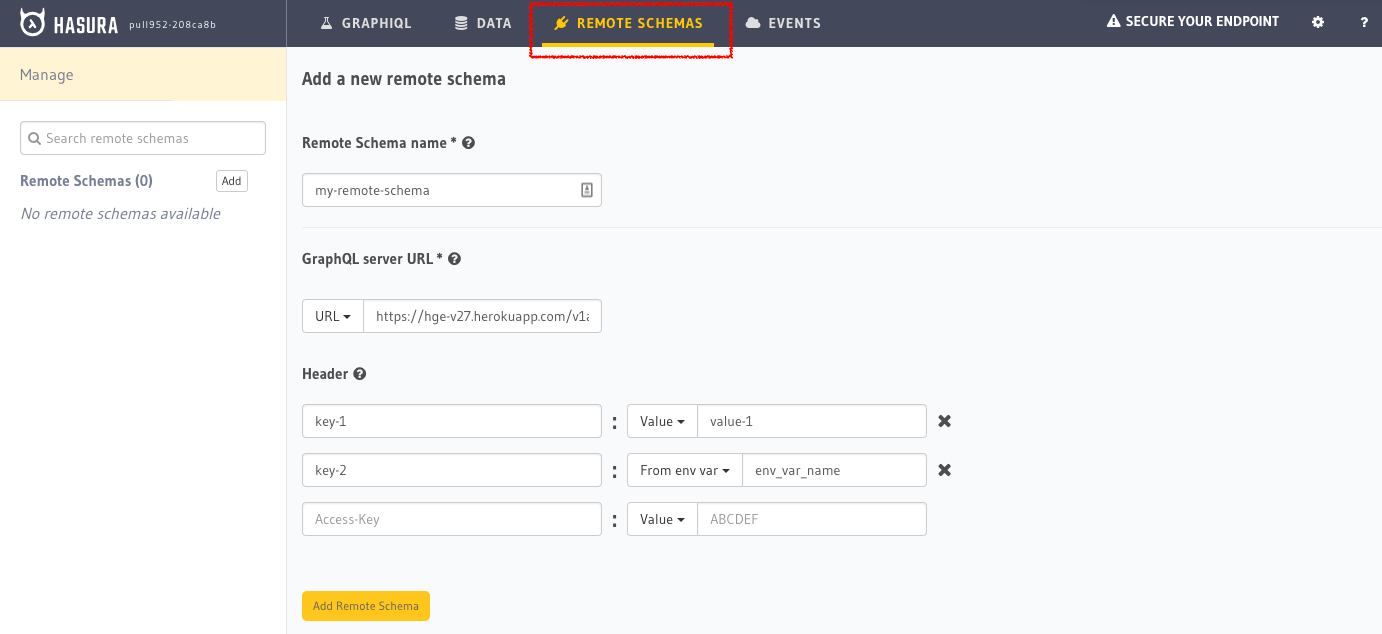
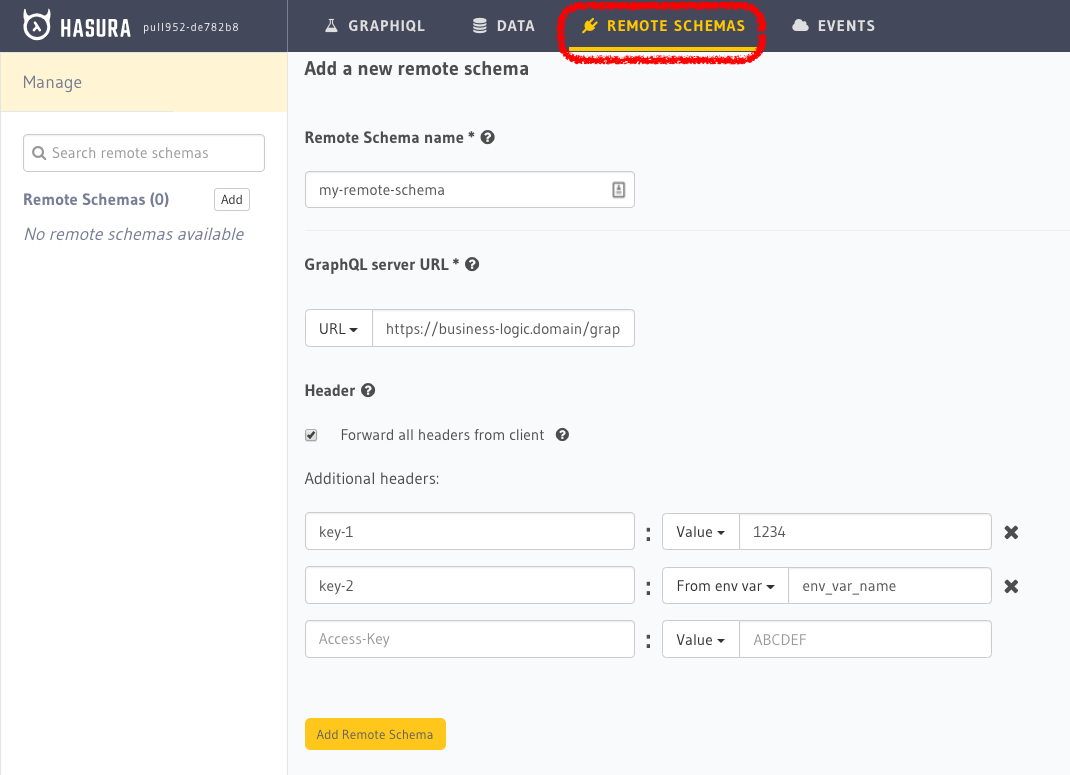
replaces screenshot and adds minor edits

diff --git a/docs/graphql/manual/business-logic/index.rst b/docs/graphql/manual/business-logic/index.rst
@@ -60,13 +60,14 @@ You need to enter the following information:
 
 - **Remote Schema name**: an alias for the remote schema that must be unique on an instance of GraphQL Engine.
 - **GraphQL server URL**: the endpoint at which your remote GraphQL server is available. This value can be entered manually or by specifying an environment variable that contains this information. If you want to specify an environment variable, please note that currently there is no validation that the environment variable is actually available at the time of this configuration, so any errors in this configuration will result in a runtime error.
-- **Headers**: configure the headers to be sent to your custom GraphQL server. A header can either be a constant key-value pair or a key-value pair whose value is picked up from an environment variable.
+- **Headers**: configure the headers to be sent to your custom GraphQL server.
 
-.. - Toggle forwarding all headers from the client app.
+  - Toggle forwarding headers sent by the client app in the request to your remote GraphQL server.   
+  - Additional headers, constant key-value pairs and/or key-value pairs whose values are picked up from an environment variable.
 
 Click on the ``Add Remote Schema`` button to merge the remote schema.
 
-For some use cases, you may need to extend (*and not merely augment as we have done above*) the GraphQL schema fields exposed by Hasura GraphQL engine with a custom schema/server. To support them, you can use community tooling to write your own client-facing GraphQL server that interacts with GraphQL Engine.
+For some use cases, you may need to extend the GraphQL schema fields exposed by Hasura GraphQL engine (*and not merely augment as we have done above*) with a custom schema/server. To support them, you can use community tooling to write your own client-facing GraphQL gateway that interacts with GraphQL Engine.
 
 .. note::
 
